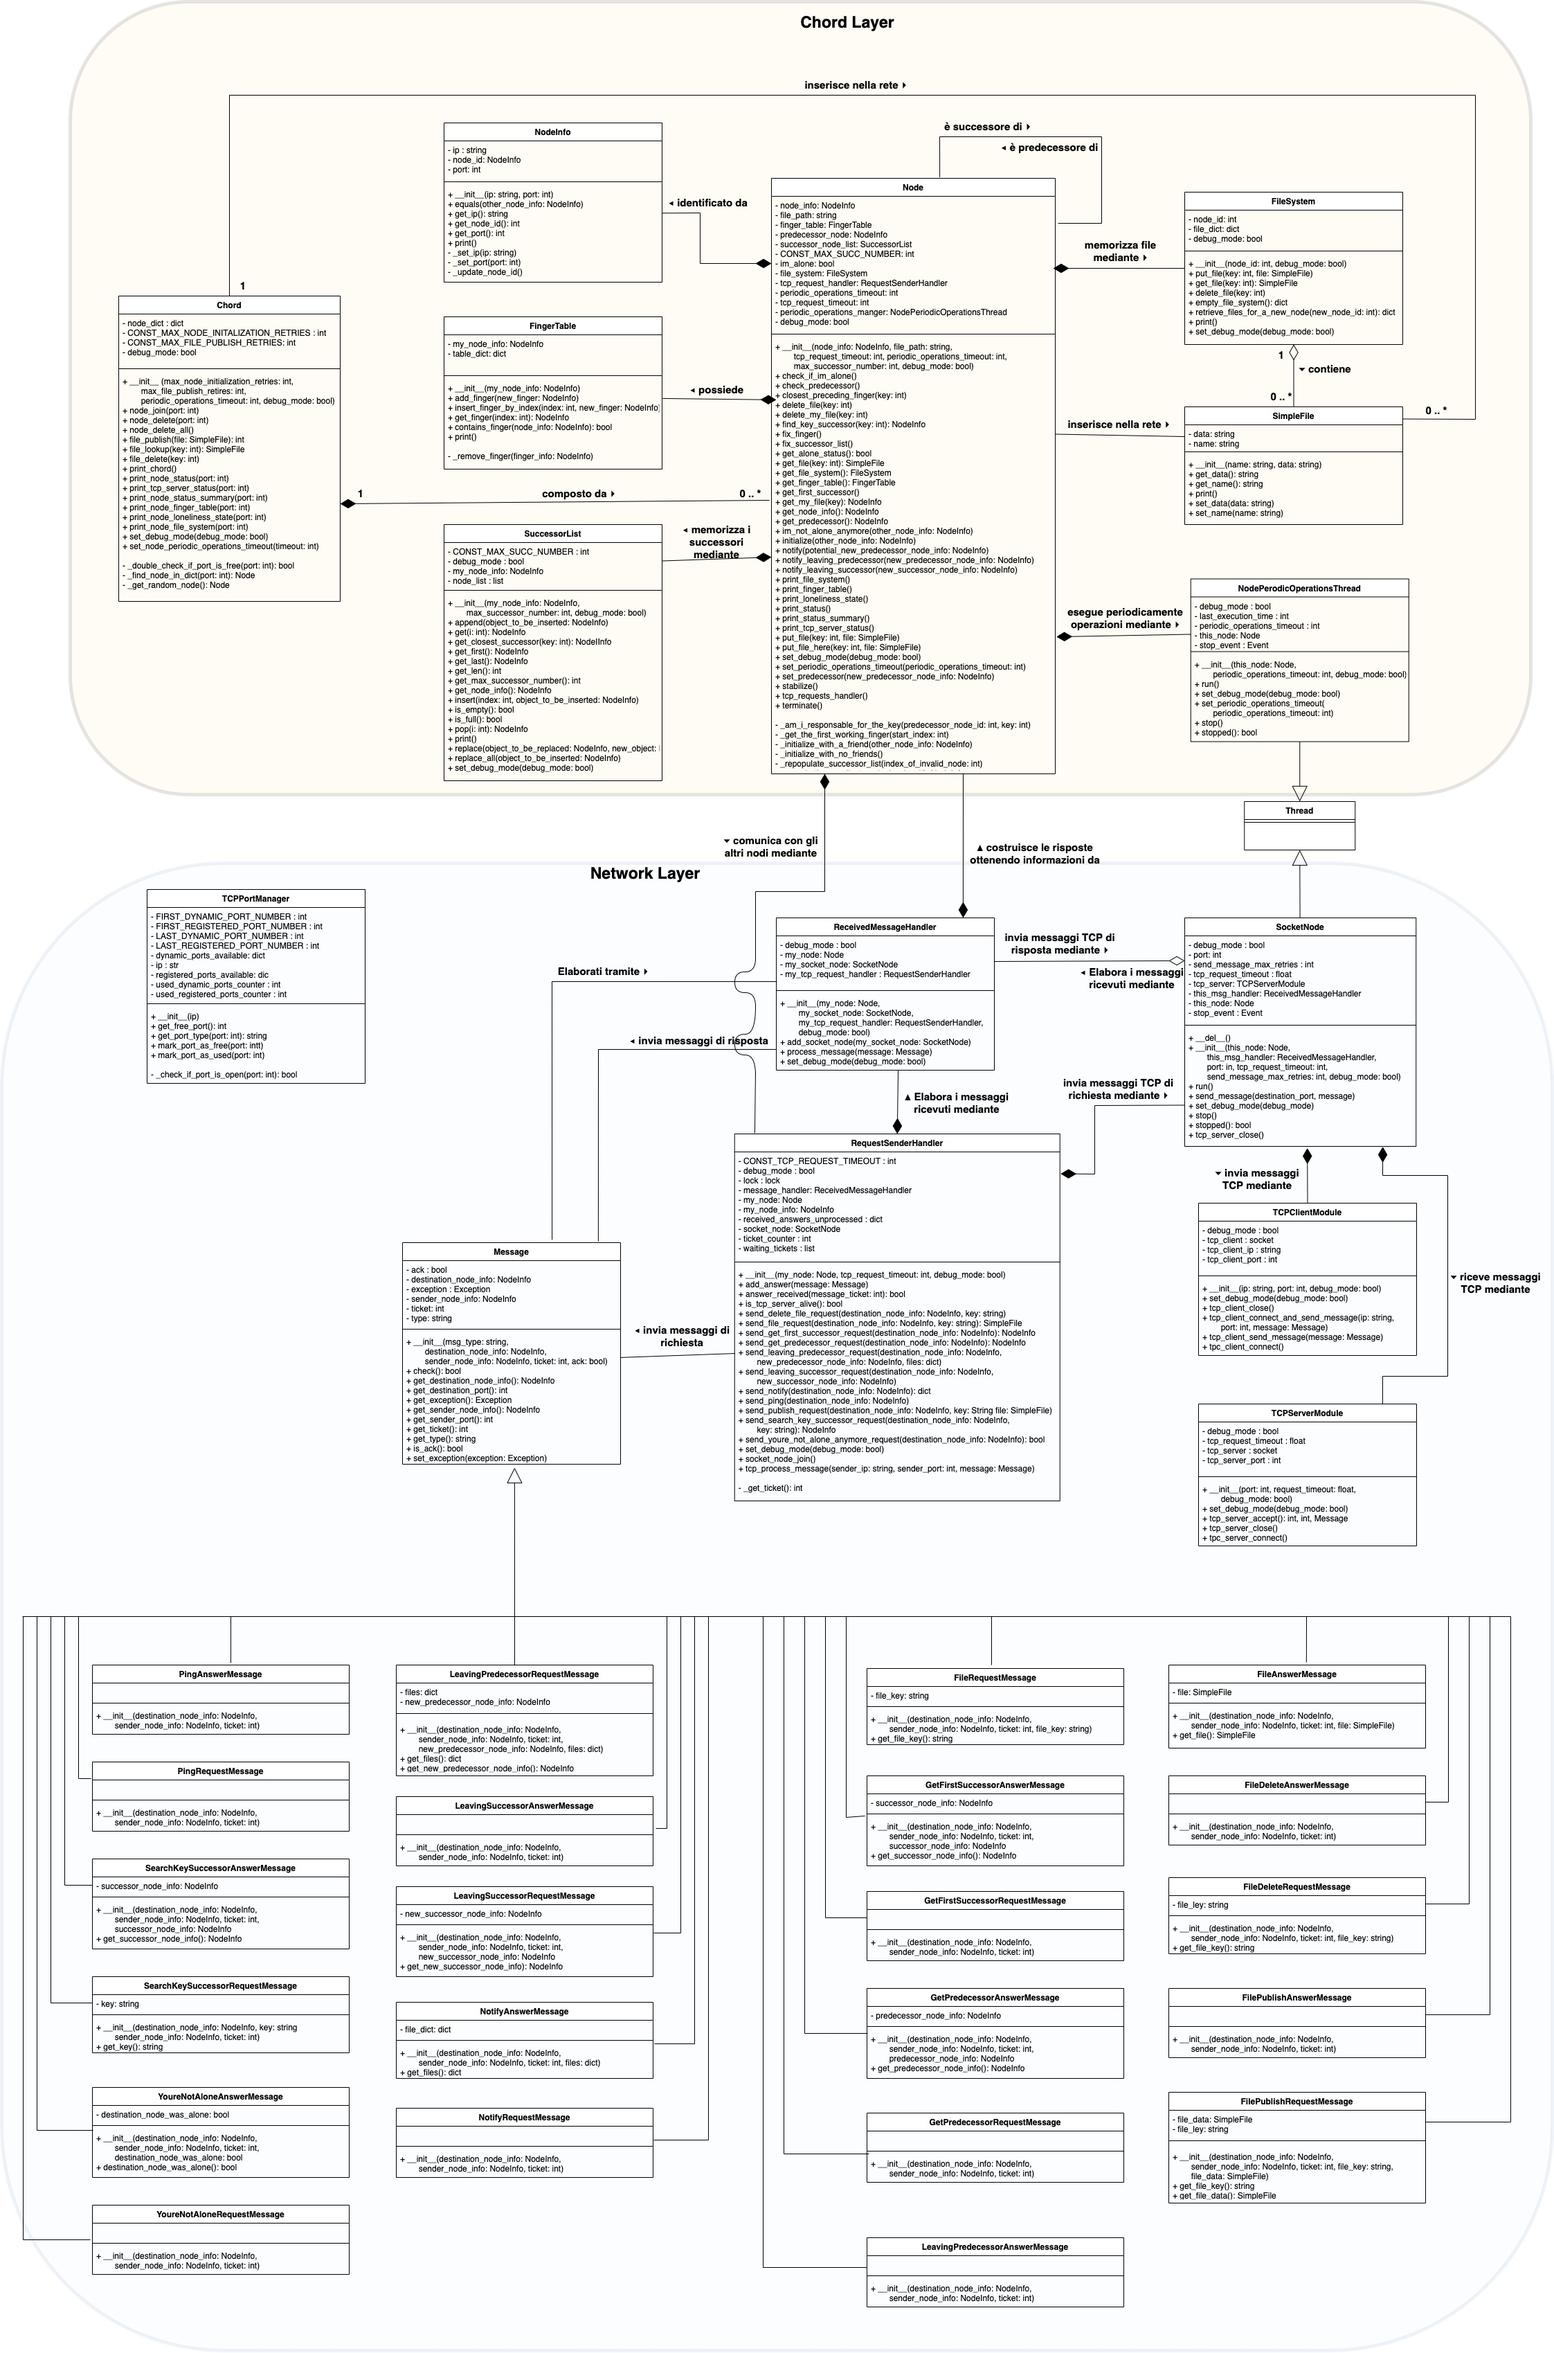
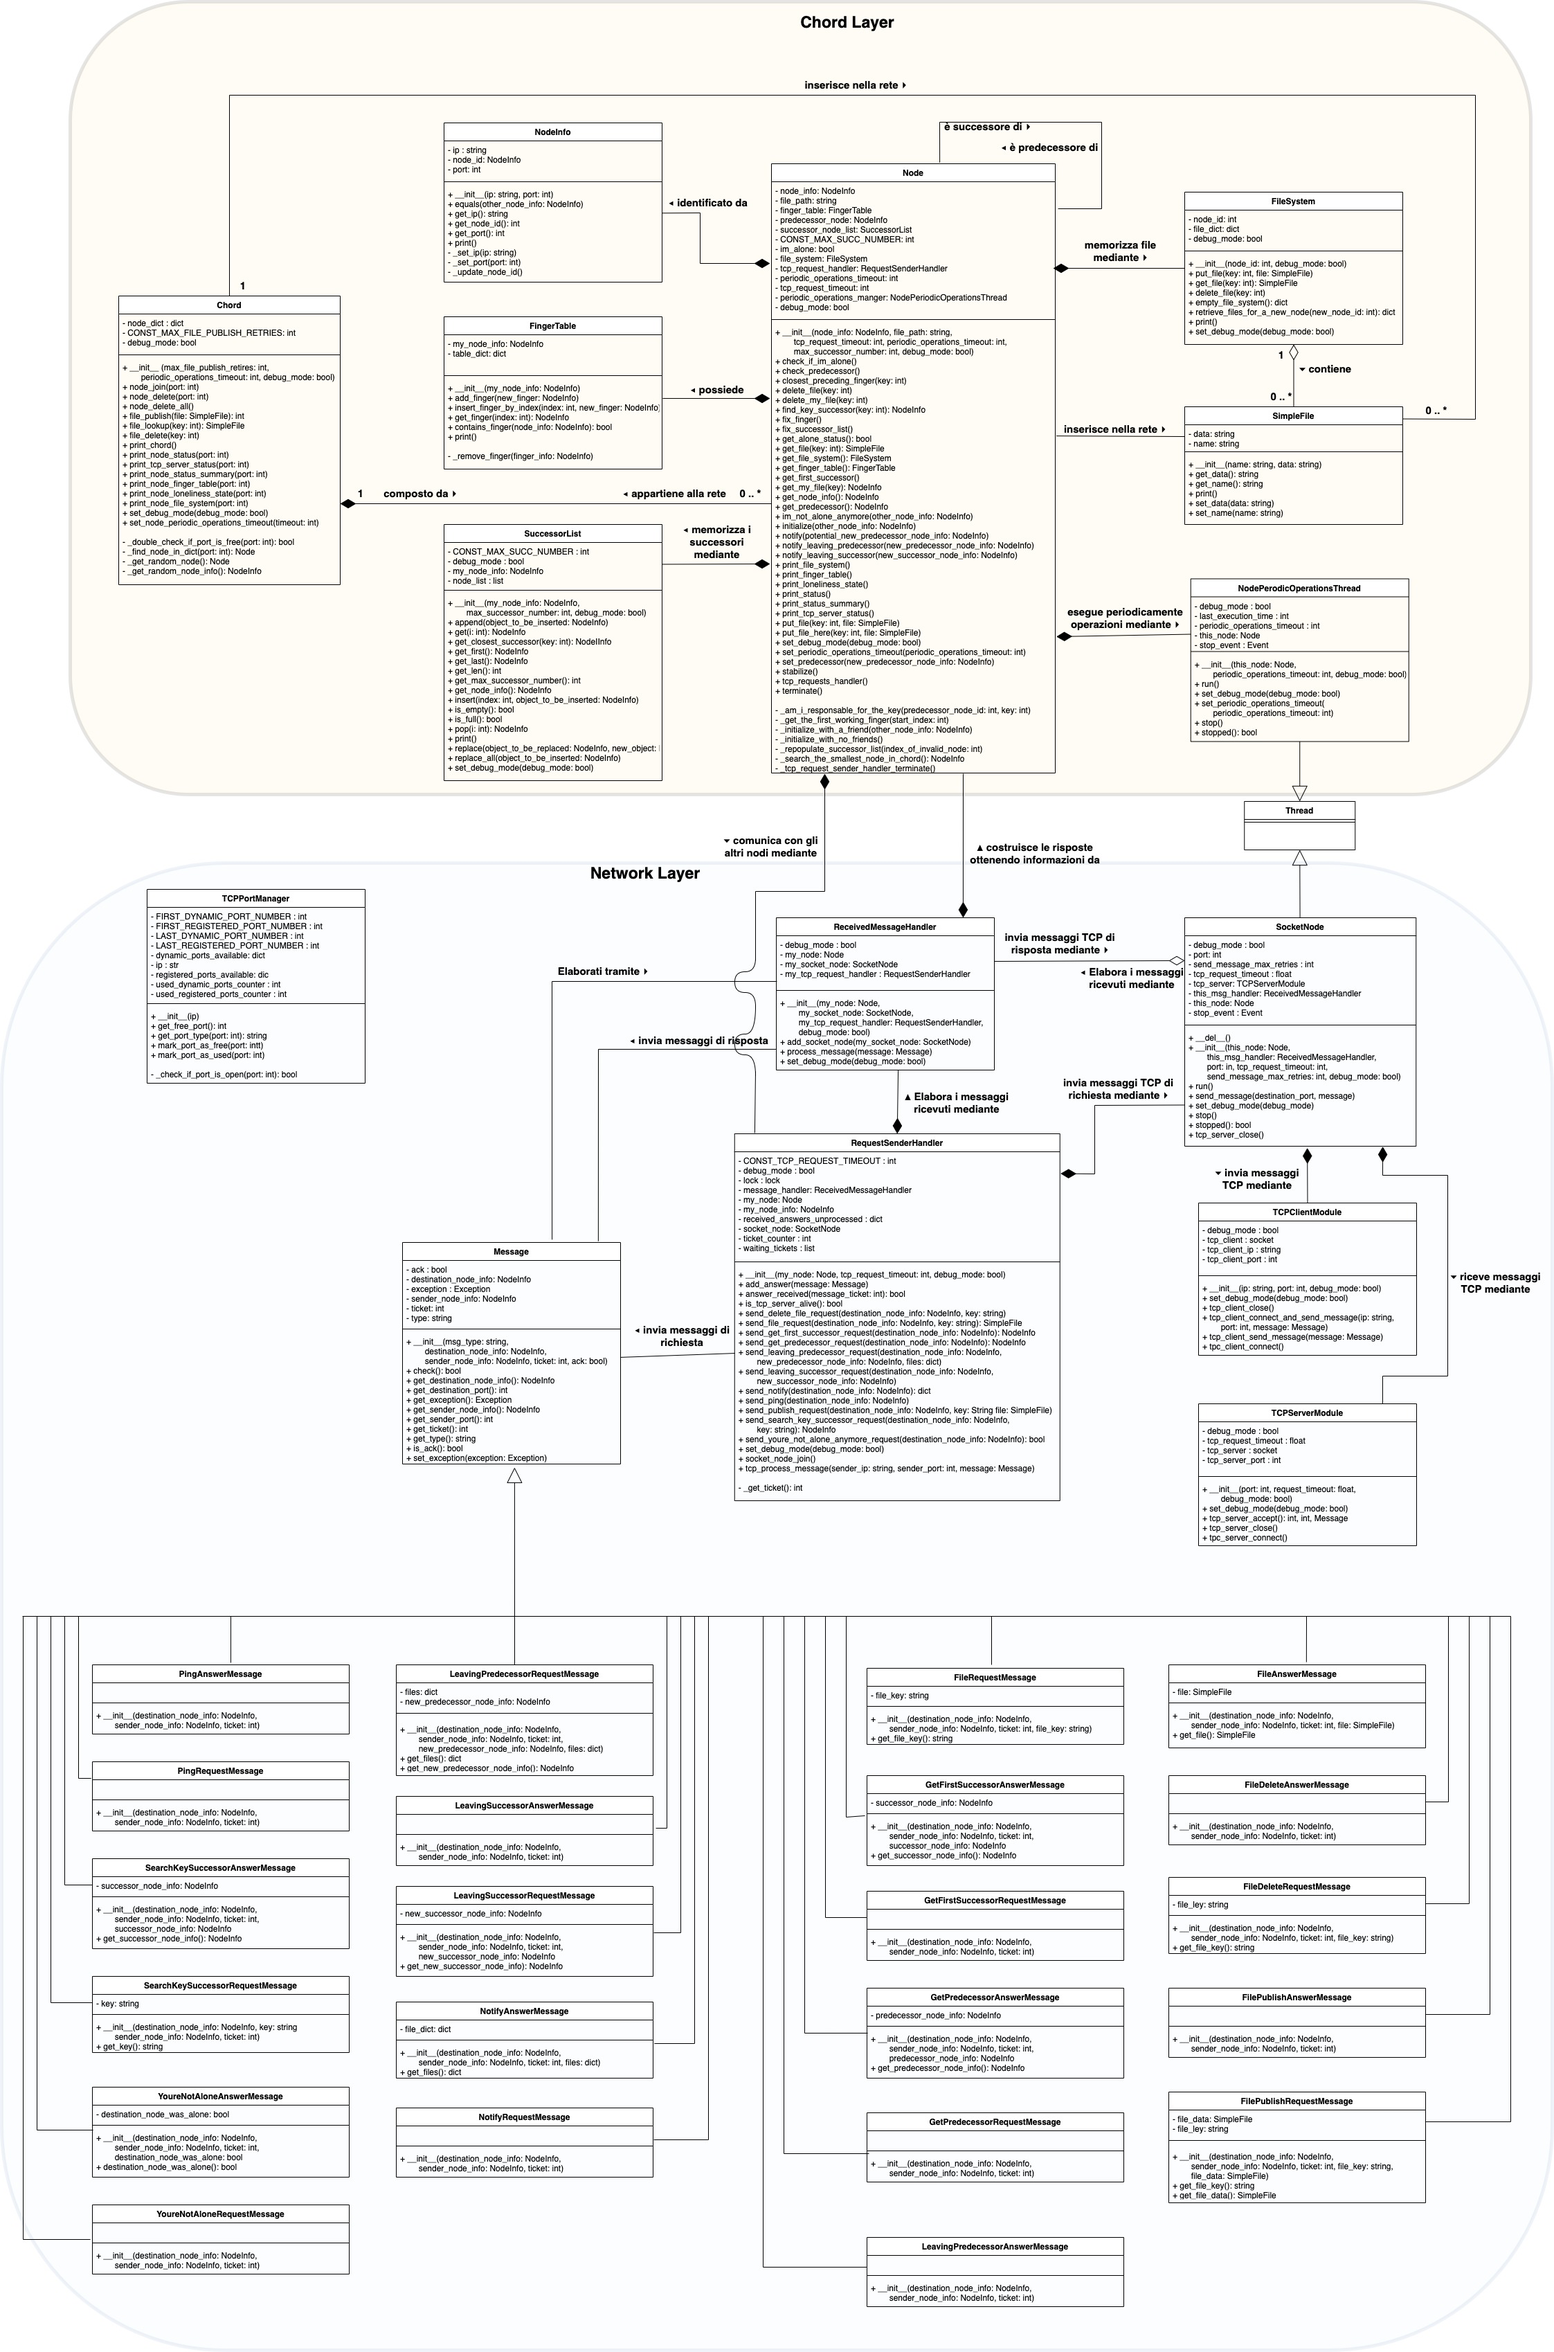
Rimossa la possibilità di ritentare l inizializzazione di un nodo sulla stessa porta. Rallentava molto

diff --git a/chord_model/chord.py b/chord_model/chord.py
@@ -8,19 +8,17 @@ class Chord:
     La classe principale della libreria. Espone i metodi per la gestione di chord
     """
 
-    def __init__(self, max_node_initialization_retries=3, max_file_publish_retires=5, periodic_operations_timeout=5000,
+    def __init__(self, max_file_publish_retires=5, periodic_operations_timeout=5000,
                  debug_mode=False):
         """
         Funzione __init__ della classe. Inizializza tutti gli attributi interni
 
-        :param max_node_initialization_retries: il massimo numero di tentativi di inizializzazione di un nodo (opzionale)
         :param max_file_publish_retires: il massimo numero di tentativi di pubblicazione di un file (opzionale)
         :param periodic_operations_timeout: intervallo tra le operazioni periodiche del nodo in ms (opzionale)
         :param debug_mode: se impostato a True, abilita la stampa dei messaggi di debug (opzionale)
         """
 
         self.__node_dict = dict()
-        self.__CONST_MAX_NODE_INITALIZATION_RETRIES = max_node_initialization_retries
         self.__CONST_MAX_FILE_PUBLISH_RETRIES = max_file_publish_retires
 
         try:
@@ -68,25 +66,17 @@ class Chord:
         # ora posso aggiungere il nuovo nodo al dizionario
         self.__node_dict[port] = new_node
 
-        retries = 1
-        while retries < self.__CONST_MAX_NODE_INITALIZATION_RETRIES:
-            try:
-                # inizializzo la finger table e sposto le eventuali chiavi di competenza
-                new_node.initialize(other_node_info)
-            except ImpossibleInitializationError:
-                print(f"ERROR: Error during the initialization of the node with Port {port}. Retries left: {self.__CONST_MAX_NODE_INITALIZATION_RETRIES - retries}")
-                retries += 1
-            except AlreadyUsedPortError:
-                self.__node_dict[port].terminate()
-                del self.__node_dict[port]
-                raise AlreadyUsedPortError
-            else:
-                break
-
-        if retries == self.__CONST_MAX_NODE_INITALIZATION_RETRIES:
+        try:
+            # inizializzo la finger table e sposto le eventuali chiavi di competenza
+            new_node.initialize(other_node_info)
+        except ImpossibleInitializationError:
             self.__node_dict[port].terminate()
             del self.__node_dict[port]
             raise ImpossibleInitializationError
+        except AlreadyUsedPortError:
+            self.__node_dict[port].terminate()
+            del self.__node_dict[port]
+            raise AlreadyUsedPortError
 
     def node_delete(self, port):
         """

diff --git a/chord_model/node.py b/chord_model/node.py
@@ -199,9 +199,11 @@ class Node:
             successor_node_info = self.__tcp_request_sender_handler.send_search_key_successor_request(other_node_info,
                                                                                                       self.__node_info.get_node_id())
         except (TCPRequestTimerExpiredError, TCPRequestSendError):
+            self._tcp_request_sender_handler_terminate()
             raise ImpossibleInitializationError
 
         if not successor_node_info:
+            self._tcp_request_sender_handler_terminate()
             raise ImpossibleInitializationError
 
         self.__successor_node_list.append(successor_node_info)
@@ -210,6 +212,7 @@ class Node:
         try:
             self.__finger_table.add_finger(successor_node_info)
         except NoneNodeErrorError:
+            self._tcp_request_sender_handler_terminate()
             raise ImpossibleInitializationError
 
         print(f"Initializing the Node Successor List...")
@@ -264,6 +267,7 @@ class Node:
                 self.im_not_alone_anymore(other_node_info)
             self.__im_alone = False
         except (TCPRequestTimerExpiredError, TCPRequestSendError):
+            self._tcp_request_sender_handler_terminate()
             raise ImpossibleInitializationError
 
         # ottengo dal mio nuovo successore il suo predecessore
@@ -328,6 +332,18 @@ class Node:
             pass
         except AttributeError:
             pass
+
+        try:
+            self.__tcp_request_sender_handler.socket_node_join()
+            del self.__tcp_request_sender_handler
+        except AttributeError:
+            pass
+
+    def _tcp_request_sender_handler_terminate(self):
+        """
+        Metodo interno per la terminazione del thread gestito da tcp_request_sender_handler
+        in caso di inizializzazione del nodo non riuscita
+        """
 
         try:
             self.__tcp_request_sender_handler.socket_node_join()

diff --git a/main.py b/main.py
@@ -19,6 +19,7 @@ assert DEBUG_MENU_ENABLED is True or DEBUG_MENU_ENABLED is False
 assert 1 <= MAX_INITALIZATION_RETRIES <= 1000
 assert 100 <= PERIODIC_OP_TIMEOUT <= 300000
 
+
 # ********+++++******* Gestione Funzioni menu principale ********************
 
 def exit_from_the_application(this_chord):
@@ -55,14 +56,9 @@ def menu_node_create_and_join():
             # Gestione richiesta nuova porta in caso in cui quella scelta sia stata occupata nel mentre da altri processi
             try:
                 chord.node_join(port)
-            except AlreadyUsedPortError:
+            except (AlreadyUsedPortError, ImpossibleInitializationError):
                 print(f"ERROR: the selected port number {port} is already in use. A new port is going to be chosen.")
                 retries += 1
-            except ImpossibleInitializationError:
-                print(f"ERROR: Impossible initialization of node with port {port}. Please retry")
-                tcp_port_manager.mark_port_as_free(port)
-                retries += 1
-                break
             else:
                 print(f"Successfully created node on TCP Port {port} ({tcp_port_manager.get_port_type(port)} Port)")
                 break  # Se tutto è andato bene, esco dal loop

diff --git a/network/tcp_socket_module.py b/network/tcp_socket_module.py
@@ -59,6 +59,8 @@ class TCPServerModule:
             pass
         except BlockingIOError:
             pass
+        except OSError:
+            pass
         else:
             try:
                 content = tcp_socket_client.recv(1024)
